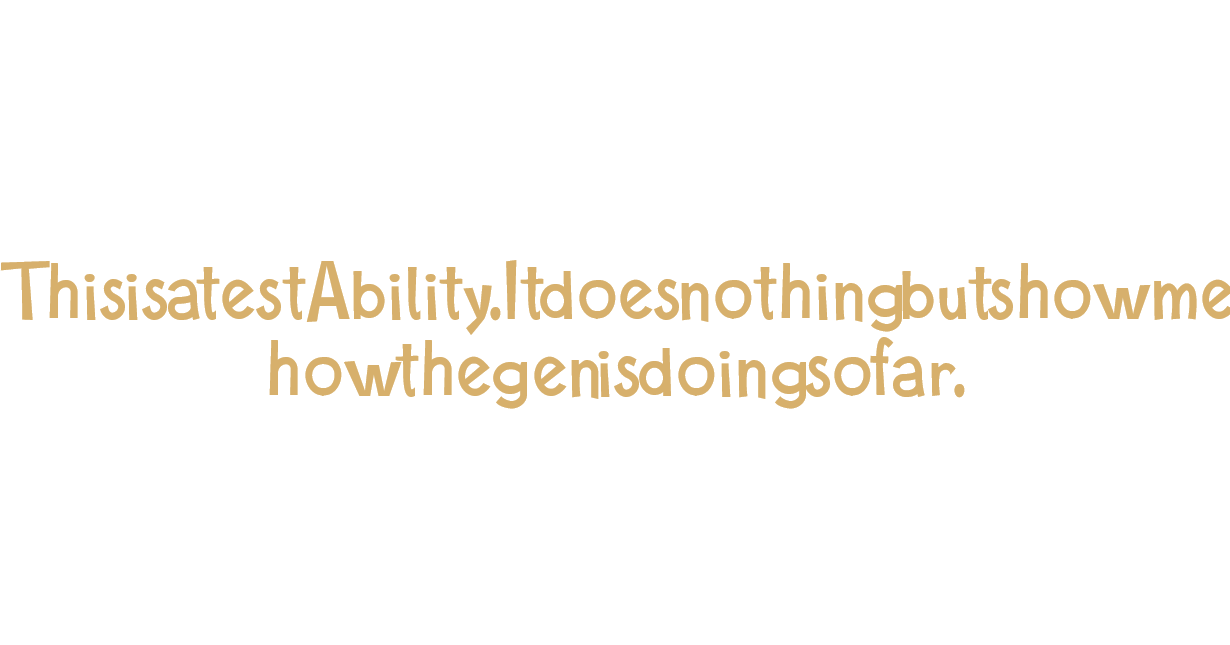
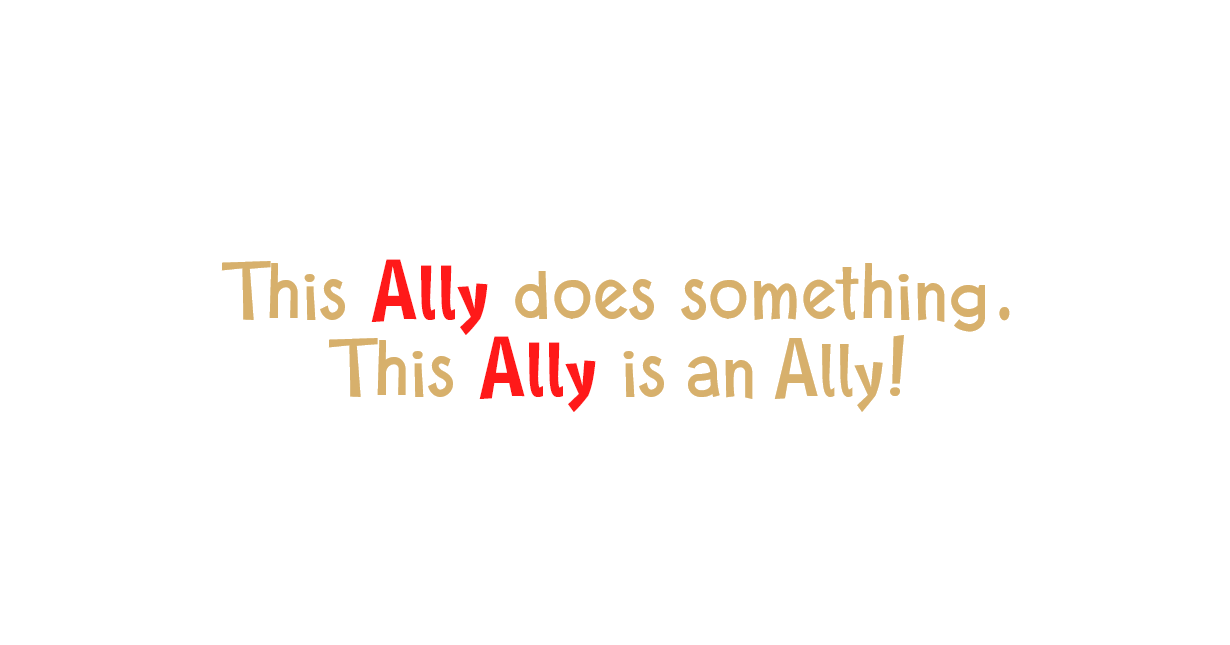
Added assets. Implemented proper font style interfacing.

Changed region(s): [[0.0, 0.4031, 1.0, 0.6512]]

diff --git a/CardGeneration/PrepareText.cs b/CardGeneration/PrepareText.cs
@@ -6,11 +6,12 @@ namespace CrossPlatform_Card_Generator.CardGeneration
 {
 	public static class PrepareText
 	{
-		public static void DrawTitle(string text, SKFont font, SKColor color, int maxWidth, int maxHeight)
+		public static void DrawTitle(string text, string fontName, int fontSize, SKColor color, int maxWidth, int maxHeight)
 		{
 			// Setup variables
 			float granularity = float.Parse(ValueFetching.GetConfigValue("text", "titleFontDecreaseGranularity"));
 			float lineSpacingFactor = float.Parse(ValueFetching.GetConfigValue("text", "titleLineSpacingFactor"));
+			SKFont font = FontLoader.GetFont(fontName, fontSize, SKFontStyle.Normal);
 
 			// Remove duplicate designation
 			if (text[^1] == ')' && text[^3] == '(')
@@ -25,14 +26,14 @@ namespace CrossPlatform_Card_Generator.CardGeneration
 			using var b = new SKBitmap(maxWidth, maxHeight);
 			using var c = new SKCanvas(b);
 			c.Clear(SKColors.Transparent);
-			List<CardWord> words = GetCardWords(text, color, font, null);
+			List<CardWord> words = GetCardWords(text, color, fontName, fontSize, null);
 
 			// Find proper font size given line number
 			float lineHeight;
 			SKSize textSize;
 			do
 			{
-				words = GetCardWords(text, color, font, null);
+				words = GetCardWords(text, color, fontName, fontSize, null);
 				lineHeight = font.Size * lineSpacingFactor;
 				textSize = MeasureWordByWord(words, 10000, lineHeight, lineSpacingFactor);
 				if (textSize.Height > maxHeight) font = new SKFont(font.Typeface, font.Size - granularity);
@@ -58,7 +59,7 @@ namespace CrossPlatform_Card_Generator.CardGeneration
 			b.Encode(outpath, SKEncodedImageFormat.Png, 100);
 		}
 
-		public static void DrawAbility(string ability, string activateAbility, string activateCost, string gainsAction, SKFont font, SKColor color, int maxWidth, int maxHeight, Dictionary<string, string> keywordsAndColors)
+		public static void DrawAbility(string ability, string activateAbility, string activateCost, string gainsAction, string fontName, int fontSize, SKColor color, int maxWidth, int maxHeight, Dictionary<string, string> keywordsAndColors)
 		{
 			// Set up variables we'll potentially need
 			float granularity = float.Parse(ValueFetching.GetConfigValue("text", "fontDecreaseGranularity"));
@@ -70,6 +71,7 @@ namespace CrossPlatform_Card_Generator.CardGeneration
 			int sideAAMaxW = int.Parse(ValueFetching.GetConfigValue("card", "sideActivateAbilityMaxWidth"));
 			int sideAACenterX = int.Parse(ValueFetching.GetConfigValue("card", "sideActivateAbilityCenterX"));
 			bool useAltAssets = ValueFetching.GetSettingsValue("Card", "useAlternateAssets") == "true";
+			SKFont font = FontLoader.GetFont(fontName, fontSize, SKFontStyle.Normal);
 
 			using var b = new SKBitmap(maxWidth, maxHeight);
 			using var c = new SKCanvas(b);
@@ -87,23 +89,23 @@ namespace CrossPlatform_Card_Generator.CardGeneration
 			{
 				// Combine every given ability into one metric
 				lineHeight = font.Size * lineSpacing;
-				abilityHeight = ability == "" ? 0 : MeasureWordByWord(GetCardWords(ability, color, font, keywordsAndColors), maxWidth, lineHeight, lineSpacing).Height;
+				abilityHeight = ability == "" ? 0 : MeasureWordByWord(GetCardWords(ability, color, fontName, fontSize, keywordsAndColors), maxWidth, lineHeight, lineSpacing).Height;
 				activateAbilityHeight = 0;
 				if (activateAbility != "" || activateCost != "")
 				{
 					if (ability == "" || activateCost != "") // If there is no ability or there is an activate cost, measure normally
 					{
-						activateAbilityHeight += actionSymbolLines * lineHeight + MeasureWordByWord(GetCardWords(activateAbility, color, font, keywordsAndColors), maxWidth, lineHeight, lineSpacing).Height;
+						activateAbilityHeight += actionSymbolLines * lineHeight + MeasureWordByWord(GetCardWords(activateAbility, color, fontName, fontSize, keywordsAndColors), maxWidth, lineHeight, lineSpacing).Height;
 					}
 					else
 					{
-						float aaTextHeight = MeasureWordByWord(GetCardWords(activateAbility, color, font, keywordsAndColors), sideAAMaxW, lineHeight, lineSpacing).Height;
+						float aaTextHeight = MeasureWordByWord(GetCardWords(activateAbility, color, fontName, fontSize, keywordsAndColors), sideAAMaxW, lineHeight, lineSpacing).Height;
 						float aaSymbolHeight = actionSymbolLines * lineHeight;
 						activateAbilityTextTaller = aaTextHeight > aaSymbolHeight;
 						activateAbilityHeight += Math.Max(aaSymbolHeight, aaTextHeight);
 					}
 				}
-				gainsActionHeight = gainsAction == "" ? 0 : MeasureWordByWord(GetCardWords(gainsAction, color, font, keywordsAndColors), maxWidth, lineHeight, lineSpacing).Height;
+				gainsActionHeight = gainsAction == "" ? 0 : MeasureWordByWord(GetCardWords(gainsAction, color, fontName, fontSize, keywordsAndColors), maxWidth, lineHeight, lineSpacing).Height;
 				int numPadding = (abilityHeight > 0 ? 1 : 0) + (activateAbilityHeight > 0 ? 1 : 0) + (gainsActionHeight > 0 ? 1 : 0) - 1;
 				if (numPadding < 0) numPadding = 0;
 				paddingHeight = numPadding * lineHeight * paddingLines;
@@ -118,7 +120,7 @@ namespace CrossPlatform_Card_Generator.CardGeneration
 				Console.WriteLine($"The following card's Ability went below the minimum {minFontSize}px:");
 			}
 
-			List<CardWord> colon = GetCardWords(":", color, font, keywordsAndColors);
+			List<CardWord> colon = GetCardWords(":", color, fontName, fontSize, keywordsAndColors);
 
 			// Drawing variables
 			float currentY = (maxHeight - textHeight) / 2;
@@ -127,7 +129,7 @@ namespace CrossPlatform_Card_Generator.CardGeneration
 			// Draw the ability first
 			if (ability != "")
 			{
-				words = GetCardWords(ability, color, font, keywordsAndColors);
+				words = GetCardWords(ability, color, fontName, fontSize, keywordsAndColors);
 				currentY = DrawWordByWord(words, c, maxWidth, lineHeight, maxWidth / 2, currentY, lineSpacing);
 				currentY += lineHeight * paddingLines;
 			}
@@ -163,19 +165,19 @@ namespace CrossPlatform_Card_Generator.CardGeneration
 					{
 						float costLeftX = colonCenterX + colonPadding;
 						float activateCostWidth = maxWidth / 2;
-						float activateCostHeight = MeasureWordByWord(GetCardWords(activateCost, color, font, keywordsAndColors), activateCostWidth, lineHeight, lineSpacing).Height;
+						float activateCostHeight = MeasureWordByWord(GetCardWords(activateCost, color, fontName, fontSize, keywordsAndColors), activateCostWidth, lineHeight, lineSpacing).Height;
 						float activateCostY = currentY + (actionSymbolLines * lineHeight - activateCostHeight) / 2; // maximum of 3 lines for clarity
 						if (drawColon)
 						{
 							float costCenterX = costLeftX + font.MeasureText(activateCost) / 2;
 							DrawWordByWord(colon, c, maxWidth, lineHeight, colonCenterX, activateCostY, lineSpacing);
-							words = GetCardWords(activateCost, color, font, keywordsAndColors);
+							words = GetCardWords(activateCost, color, fontName, fontSize, keywordsAndColors);
 							DrawWordByWord(words, c, activateCostWidth, lineHeight, costCenterX, activateCostY, lineSpacing);
 						}
 						else
 						{
 							float costCenterX = costLeftX + font.MeasureText(activateCost) / 2;
-							words = GetCardWords(activateCost, color, font, keywordsAndColors);
+							words = GetCardWords(activateCost, color, fontName, fontSize, keywordsAndColors);
 							DrawWordByWord(words, c, activateCostWidth, lineHeight, maxWidth / 2 + costCenterX, activateCostY, lineSpacing);
 						}
 					}
@@ -184,7 +186,7 @@ namespace CrossPlatform_Card_Generator.CardGeneration
 					// Ability, if any
 					if (activateAbility != "")
 					{
-						words = GetCardWords(activateAbility, color, font, keywordsAndColors);
+						words = GetCardWords(activateAbility, color, fontName, fontSize, keywordsAndColors);
 						currentY = DrawWordByWord(words, c, maxWidth, lineHeight, maxWidth / 2, currentY, lineSpacing);
 					}
 				}
@@ -195,7 +197,7 @@ namespace CrossPlatform_Card_Generator.CardGeneration
 					DrawSymbol(activateSymbol, c, symbolCenterX, currentY + activateAbilityHeight / 2, resizing);
 					
 					// Activate ability
-					words = GetCardWords(activateAbility, color, font, keywordsAndColors);
+					words = GetCardWords(activateAbility, color, fontName, fontSize, keywordsAndColors);
 					float drawY = currentY;
 					if (!activateAbilityTextTaller)
 					{
@@ -210,7 +212,7 @@ namespace CrossPlatform_Card_Generator.CardGeneration
 			// Finally, draw the gained action
 			if (gainsAction != "")
 			{
-				words = GetCardWords(gainsAction, color, font, keywordsAndColors);
+				words = GetCardWords(gainsAction, color, fontName, fontSize, keywordsAndColors);
 				DrawWordByWord(words, c, maxWidth, lineHeight, maxWidth / 2, currentY, lineSpacing);
 			}
 
@@ -488,7 +490,8 @@ namespace CrossPlatform_Card_Generator.CardGeneration
 					{
 						SKFont gainPowerFont = FontLoader.GetFont(
 							ValueFetching.GetConfigValue("text", "elementFont"),
-							(int)(float.Parse(ValueFetching.GetConfigValue("text", "costFontSize")) * resizing)
+							(int)(float.Parse(ValueFetching.GetConfigValue("text", "costFontSize")) * resizing),
+							SKFontStyle.Bold
 						);
 						SKPoint gainPowerPos = new(
 							(int)maxWidth,
@@ -514,12 +517,20 @@ namespace CrossPlatform_Card_Generator.CardGeneration
 
 		private static void DrawSymbol(SKImage symbol, SKCanvas c, float centerX, float centerY, float resizing = 1.0F)
 		{
+			int newWidth = (int)(symbol.Width * resizing);
+			int newHeight = (int)(symbol.Height * resizing);
+			var resized = new SKBitmap(newWidth, newHeight);
+			using (var newC = new SKCanvas(resized))
+			{
+				newC.Clear(SKColors.Transparent);
+				newC.DrawImage(symbol, new SKRect(0, 0, newWidth, newHeight));
+			}
 			float x = centerX - resizing * symbol.Width / 2;
 			float y = centerY - resizing * symbol.Height / 2;
-			c.DrawImage(symbol, new SKPoint(x, y));
+			c.DrawBitmap(resized, new SKPoint(x, y));
 		}
 
-		public static List<CardWord> GetCardWords(string text, SKColor defaultColor, SKFont defaultFont, Dictionary<string, string>? keywordData, bool isType = false)
+		public static List<CardWord> GetCardWords(string text, SKColor defaultColor, string defaultFontName, int defaultFontSize, Dictionary<string, string>? keywordData, bool isType = false)
 		{
 			bool typeIsCaps = ValueFetching.GetConfigValue("text", "typeIsCaps") == "true";
 			bool typeInAbilityIsBold = ValueFetching.GetConfigValue("text", "typeInAbilityIsBold") == "true";
@@ -529,9 +540,10 @@ namespace CrossPlatform_Card_Generator.CardGeneration
 			char escapeSymbol = Convert.ToChar(ValueFetching.GetConfigValue("text", "escapeCharacter"));
 			char newlineSymbol = Convert.ToChar(ValueFetching.GetConfigValue("text", "newlineCharacter"));
 
-			SKFont italicFont = defaultFont;
-			SKFont boldFont = defaultFont;
-			SKFont boldItalicFont = defaultFont;
+			SKFont defaultFont = FontLoader.GetFont(defaultFontName, defaultFontSize, SKFontStyle.Normal);
+			SKFont italicFont = FontLoader.GetFont(defaultFontName, defaultFontSize, SKFontStyle.Italic);
+			SKFont boldFont = FontLoader.GetFont(defaultFontName, defaultFontSize, SKFontStyle.Bold);
+			SKFont boldItalicFont = FontLoader.GetFont(defaultFontName, defaultFontSize, SKFontStyle.BoldItalic);
 
 			List<CardWord> cardWords = [];
 
@@ -587,26 +599,6 @@ namespace CrossPlatform_Card_Generator.CardGeneration
 				{
 					if (letter == italicSymbol)
 					{
-						italicsOpen = !italicsOpen;
-						if (builtWord != "")
-						{
-							bool isKeyword = keywordData != null && keywordData.TryGetValue(builtWord, out string? value);
-							bool boldWord = (isKeyword && (isType || typeInAbilityIsBold)) && !boldOpen ||
-										   !(isKeyword && (isType || typeInAbilityIsBold)) && boldOpen;
-							CardWord word = new(
-								builtWord,
-								isKeyword && !ignoreFormatting ? ColorConverter.FromHtml(keywordData[builtWord]) : defaultColor,
-								boldWord && !ignoreFormatting ? (!italicsOpen ? boldItalicFont : boldFont) : !italicsOpen ? italicFont : defaultFont
-							);
-							word.SetType(isType);
-							if (isType && typeIsCaps) word.SetText(word.GetText().ToUpper());
-							cardWords.Add(word);
-							builtWord = "";
-						}
-					}
-					else if (letter == boldSymbol)
-					{
-						boldOpen = !boldOpen;
 						if (builtWord != "")
 						{
 							bool isKeyword = keywordData != null && keywordData.TryGetValue(builtWord, out string? value);
@@ -622,6 +614,26 @@ namespace CrossPlatform_Card_Generator.CardGeneration
 							cardWords.Add(word);
 							builtWord = "";
 						}
+						italicsOpen = !italicsOpen;
+					}
+					else if (letter == boldSymbol)
+					{
+						if (builtWord != "")
+						{
+							bool isKeyword = keywordData != null && keywordData.TryGetValue(builtWord, out string? value);
+							bool boldWord = (isKeyword && (isType || typeInAbilityIsBold)) && !boldOpen ||
+										   !(isKeyword && (isType || typeInAbilityIsBold)) && boldOpen;
+							CardWord word = new(
+								builtWord,
+								isKeyword && !ignoreFormatting ? ColorConverter.FromHtml(keywordData[builtWord]) : defaultColor,
+								boldWord && !ignoreFormatting ? (italicsOpen ? boldItalicFont : boldFont) : italicsOpen ? italicFont : defaultFont
+							);
+							word.SetType(isType);
+							if (isType && typeIsCaps) word.SetText(word.GetText().ToUpper());
+							cardWords.Add(word);
+							builtWord = "";
+						}
+						boldOpen = !boldOpen;
 					}
 					else if (letter == escapeSymbol)
 					{
@@ -703,14 +715,14 @@ namespace CrossPlatform_Card_Generator.CardGeneration
 			{
 				text = "";
 				textColor = SKColors.Black;
-				textFont = FontLoader.GetFont(ValueFetching.GetConfigValue("text", "altFont"), 1);
+				textFont = FontLoader.GetFont(ValueFetching.GetConfigValue("text", "altFont"), 1, SKFontStyle.Normal);
 			}
 
 			public CardWord(string text)
 			{
 				this.text = text;
 				textColor = SKColors.Black;
-				textFont = FontLoader.GetFont(ValueFetching.GetConfigValue("text", "altFont"), 1);
+				textFont = FontLoader.GetFont(ValueFetching.GetConfigValue("text", "altFont"), 1, SKFontStyle.Normal);
 			}
 
 			public CardWord(string text, SKColor textColor, SKFont textFont)
@@ -739,9 +751,17 @@ namespace CrossPlatform_Card_Generator.CardGeneration
 
 			public SKSize GetSizeF()
 			{
-				using var path = textFont.GetTextPath(text);
-				SKRect bounds = path.Bounds;
-				return new SKSize(bounds.Width, bounds.Height);
+				if (text != " ")
+				{
+					using var path = textFont.GetTextPath(text);
+					SKRect bounds = path.Bounds;
+					return new SKSize(bounds.Width * (!TextManipulation.IsPunctuation(text) ? 1.05f : 1f), bounds.Height);
+				}
+				else
+				{
+					var paint = new SKPaint{ Color = textColor, Style = SKPaintStyle.Fill };
+					return new SKSize(textFont.MeasureText(text), textFont.Size);
+				}
 			}
 		}
 	}

diff --git a/Program.cs b/Program.cs
@@ -44,13 +44,6 @@ class Program
         int bottomRightFontSize = int.Parse(ValueFetching.GetConfigValue("text", "bottomRightFontSize"));
         string typeFontFile = ValueFetching.GetConfigValue("text", "typeFont");
         int typeFontSize = int.Parse(ValueFetching.GetConfigValue("text", "typeFontSize"));
-        SKFont titleFont = FontLoader.GetFont(titleFontFile, titleFontSize);
-		SKFont abilityFont = FontLoader.GetFont(abilityFontFile, abilityFontSize);
-        SKFont typeFont = FontLoader.GetFont(typeFontFile, typeFontSize);
-		SKFont costFont = FontLoader.GetFont(elementFontFile, costFontSize);
-        SKFont strengthFont = FontLoader.GetFont(elementFontFile, strengthFontSize);
-        SKFont topRightFont = FontLoader.GetFont(elementFontFile, topRightFontSize);
-        SKFont bottomRightFont = FontLoader.GetFont(elementFontFile, bottomRightFontSize);
 
         bool repeat = true;
         while (repeat)
@@ -101,13 +94,13 @@ class Program
                     // Skip cards that do not have all the necessary elements
                     if (!skipCard && title != "" && (ability != "" || activateAbility != "" || activateCost != "" || gainsAction != "") && type != "")
                     {
-                        DrawTitle(title, titleFont, textColor, titleAreaMaxWidth, titleAreaMaxHeight);
-                        DrawAbility(ability, activateAbility, activateCost, gainsAction, abilityFont, textColor, abilityAreaMaxWidth, abilityAreaMaxHeight, keywordsAndColors);
-                        DrawType(type, typeFont, textColor, typeAreaMaxWidth, typeAreaMaxHeight, keywordsAndColors);
-                        if (cost != "") DrawCornerElement(cost, costFont, textColor, "Cost", cornerElementMaxWidth, cornerElementMaxHeight);
-                        if (strength != "") DrawCornerElement(strength, strengthFont, textColor, "Strength", cornerElementMaxWidth, cornerElementMaxHeight);
-                        if (topRight != "") DrawCornerElement(topRight, topRightFont, textColor, "TopRight", cornerElementMaxWidth, cornerElementMaxHeight);
-                        if (bottomRight != "") DrawCornerElement(bottomRight, bottomRightFont, textColor, "BottomRight", cornerElementMaxWidth, cornerElementMaxHeight);
+                        DrawTitle(title, titleFontFile, titleFontSize, textColor, titleAreaMaxWidth, titleAreaMaxHeight);
+                        DrawAbility(ability, activateAbility, activateCost, gainsAction, abilityFontFile, abilityFontSize, textColor, abilityAreaMaxWidth, abilityAreaMaxHeight, keywordsAndColors);
+                        //DrawType(type, typeFontFile, typeFontSize, textColor, typeAreaMaxWidth, typeAreaMaxHeight, keywordsAndColors);
+                        //if (cost != "") DrawCornerElement(cost, elementFontFile, costFontSize, textColor, "Cost", cornerElementMaxWidth, cornerElementMaxHeight);
+                        //if (strength != "") DrawCornerElement(strength, elementFontFile, strengthFontSize, textColor, "Strength", cornerElementMaxWidth, cornerElementMaxHeight);
+                        //if (topRight != "") DrawCornerElement(topRight, elementFontFile, topRightFontSize, textColor, "TopRight", cornerElementMaxWidth, cornerElementMaxHeight);
+                        //if (bottomRight != "") DrawCornerElement(bottomRight, elementFontFile, bottomRightFontSize, textColor, "BottomRight", cornerElementMaxWidth, cornerElementMaxHeight);
                         
                         SizeCardImage(TextManipulation.CleanTitle(title));
                         CombineImages(TextManipulation.CleanTitle(title), deck);

diff --git a/CardGeneration/FontLoader.cs b/CardGeneration/FontLoader.cs
@@ -5,7 +5,7 @@ namespace CrossPlatform_Card_Generator.CardGeneration
 {
 	public static class FontLoader
 	{
-		public static SKFont GetFont(string fontName, int size)
+		public static SKFont GetFont(string fontName, int size, SKFontStyle fontStyle)
 		{
 			string fontPath = Structuring.GetFullPath(Path.Combine("fonts", fontName));
 			if (!File.Exists(fontPath))
@@ -14,7 +14,8 @@ namespace CrossPlatform_Card_Generator.CardGeneration
 				fontPath = Structuring.GetFullPath(Path.Combine("fonts", altFont));
 			}
 			SKFontManager fm = SKFontManager.CreateDefault();
-			SKTypeface tf = fm.CreateTypeface(fontPath);
+			SKTypeface templateTypeFace = fm.CreateTypeface(fontPath);
+			SKTypeface tf = SKTypeface.FromFamilyName(templateTypeFace.FamilyName, fontStyle);
 			SKFont font = new(tf, size);
 			return font;
 		}

diff --git a/CardGeneration/ColorConverter.cs b/CardGeneration/ColorConverter.cs
@@ -7,7 +7,7 @@ namespace CrossPlatform_Card_Generator.CardGeneration
 		public static SKColor FromHtml(string htmlColor)
 		{
 			// Remove #
-			htmlColor = htmlColor[1..^0];
+			if (htmlColor[0] == '#') htmlColor = htmlColor[1..^0];
 
 			byte r = (byte)Convert.ToInt32(htmlColor[0..2], 16);
 			byte g = (byte)Convert.ToInt32(htmlColor[2..4], 16);
